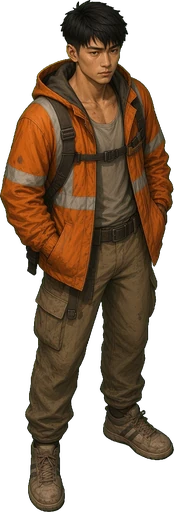
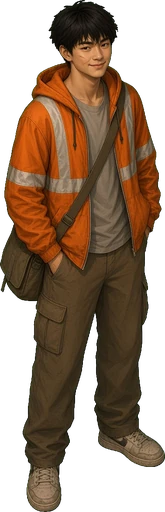
PNJ : gen_ag_kim redessine en adolescent de 17 ans (canon), height_m 1.68, portrait et catalogue

diff --git a/docs/assets/PNJ_ASIA_CHINA.md b/docs/assets/PNJ_ASIA_CHINA.md
@@ -2,6 +2,8 @@
 
 Branche creation/pnj-asia-china. Remplacent les reemplois provisoires (gen_vera, gen_odile, etc.). Cle = gen_ + id du PNJ dans src/data (asia_ground.js, china_lake.js).
 
+Kim Tran : adolescent de 17 ans (age canon), plus mince et plus petit (1.68 m).
+
 Convention (identique a gen_teng, gen_elio, gen_vera) : webp RGBA, fond transparent, recadre serre sur la silhouette, 512 px de haut, pivot = bas-centre (pieds). Echelle donnee par height_m dans assets/reused/manifest.json (environ 50 px/m en jeu). Portrait : portrait-<cle>.webp, 192x192, recadre du haut du sprite sur fond (58,44,32), comme tools_npcs_steel.py.
 
 Chaine : GenerateImage sur fond vert uni (#00E600), detourage par excès de vert, trous interieurs verts retires, despill limite a une bande de 4 px au bord.
@@ -14,7 +16,7 @@ A brancher (hors de ce lot, fichiers d autres agents) : 1) remplacer sprite: 'ge
 | gen_ag_lau | 1.66 | 136x512 |
 | gen_ag_okafor | 1.8 | 203x512 |
 | gen_ag_seng | 1.72 | 185x512 |
-| gen_ag_kim | 1.74 | 174x512 |
+| gen_ag_kim | 1.68 | 165x512 |
 | gen_ag_ahlam | 1.86 | 199x512 |
 | gen_cl_shen | 1.72 | 167x512 |
 | gen_cl_m_nord | 1.68 | 177x512 |
@@ -91,10 +93,10 @@ Entrees de manifeste proposees :
  },
  "gen_ag_kim": {
   "file": "generated/gen_ag_kim.webp",
-  "source": "GenerateImage (cursor), 9d05f75e",
-  "height_m": 1.74,
+  "source": "GenerateImage (cursor), 8c2bd43f",
+  "height_m": 1.68,
   "px": [
-   174,
+   165,
    512
   ],
   "footprint_m": [
